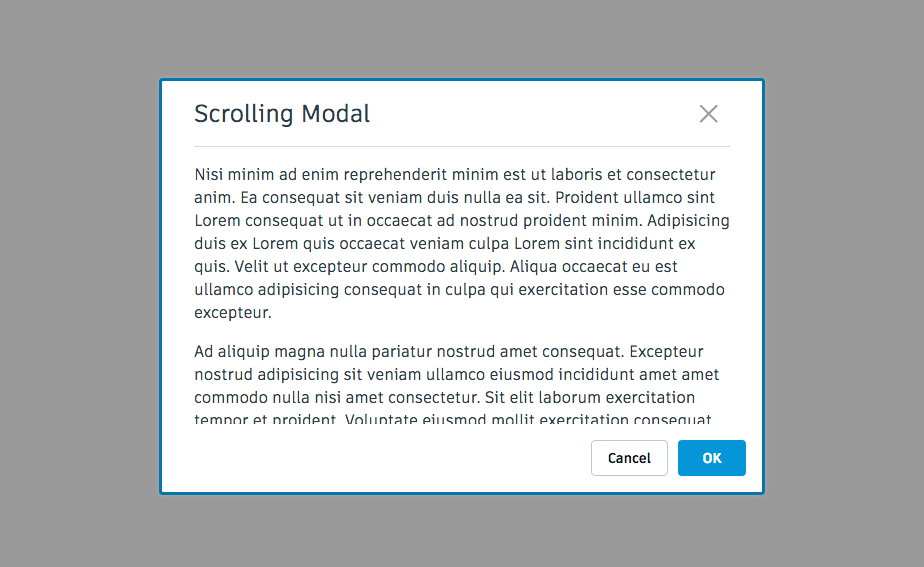
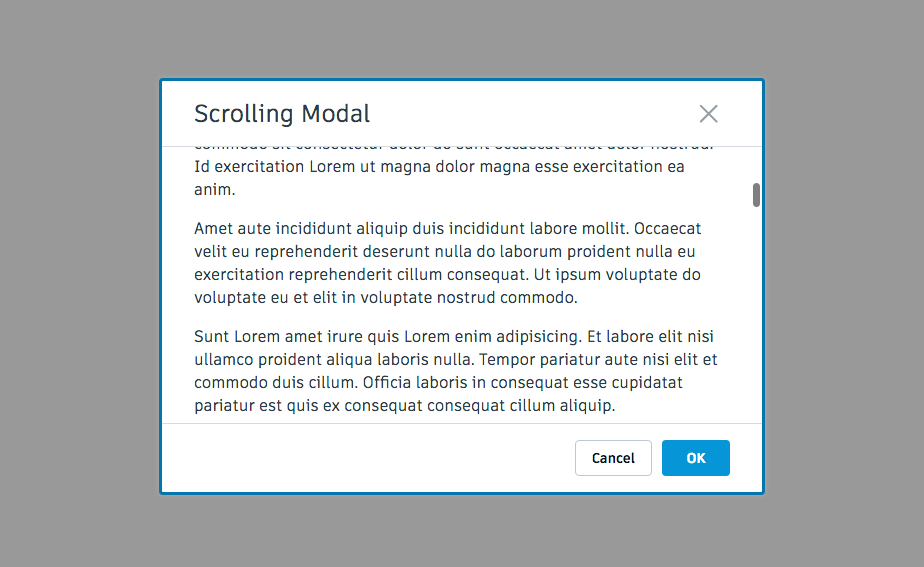
Fire scrolling callback when scrolltop is set manually

Changed region(s): [[0.2121, 0.2698, 0.8485, 0.7496], [0.6364, 0.7795, 0.8182, 0.8395]]

diff --git a/src/implementations/vanilla/src/components/modal/tests/gemini-modal.html b/src/implementations/vanilla/src/components/modal/tests/gemini-modal.html
@@ -89,7 +89,7 @@
           // ----------------------------
 
           function configureLongModal() {
-            Modal.setTitle('Scrolling Modal');
+            Modal.setTitle('Scrollable Modal');
             Modal.setStyle('standard');
             Modal.setBody('');
 
@@ -98,15 +98,15 @@
             Modal.addSlot(longModalContent);
 
             disposeCloseClick();
-            disposeCloseClick = Modal.onCloseClick(configureScrolledModal);
+            disposeCloseClick = Modal.onCloseClick(configureScrollingModal);
           }
 
           // ----------------------------
           // Long modal scrolled
           // ----------------------------
 
-          function configureScrolledModal() {
-            Modal.setTitle('Scrolled Modal');
+          function configureScrollingModal() {
+            Modal.setTitle('Scrolling Modal');
             Modal.setStyle('standard');
 
             Modal.setScrollTop(500);

diff --git a/src/implementations/vanilla/dev/gemini/modal-test.js b/src/implementations/vanilla/dev/gemini/modal-test.js
@@ -10,10 +10,10 @@ gemini.suite('modal', (parent) => {
             .capture('alternate', function(actions, find) {
                 actions.click(this.next);
             })
-            .capture('scrolling', function(actions, find) {
+            .capture('scrollable', function(actions, find) {
                 actions.click(this.next);
             })
-            .capture('scrolled', function(actions, find) {
+            .capture('scrolling', function(actions, find) {
                 actions.click(this.next);
             });
   });

diff --git a/src/implementations/vanilla/src/components/modal/modal.js b/src/implementations/vanilla/src/components/modal/modal.js
@@ -50,6 +50,7 @@ class Modal extends Core {
   setScrollTop(scrollTop) {
      const scrollingElement = this._findDOMEl('.hig__modal__slot', this.el);
      scrollingElement.scrollTop = scrollTop;
+     _handleIsScrolling(scrollingElement);
   }
 
   addButton(instance) {
